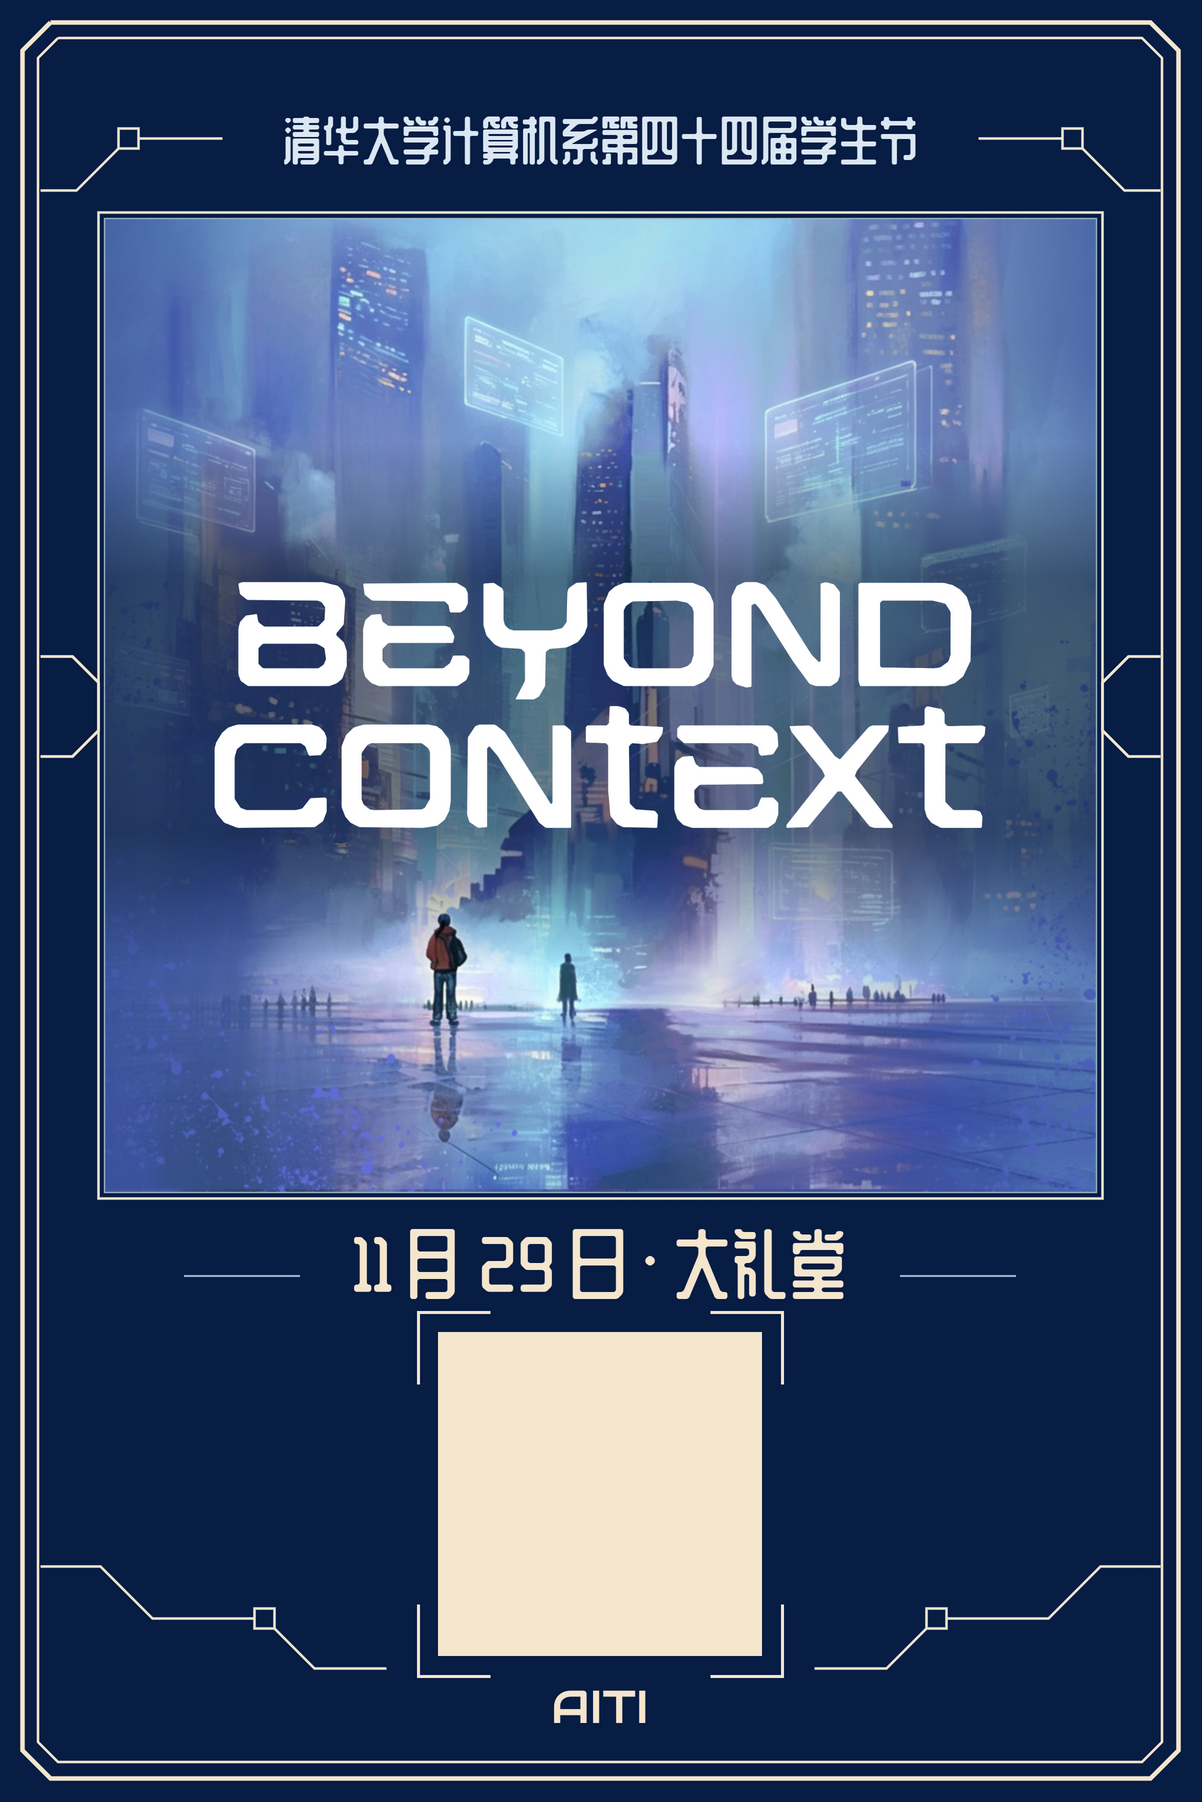
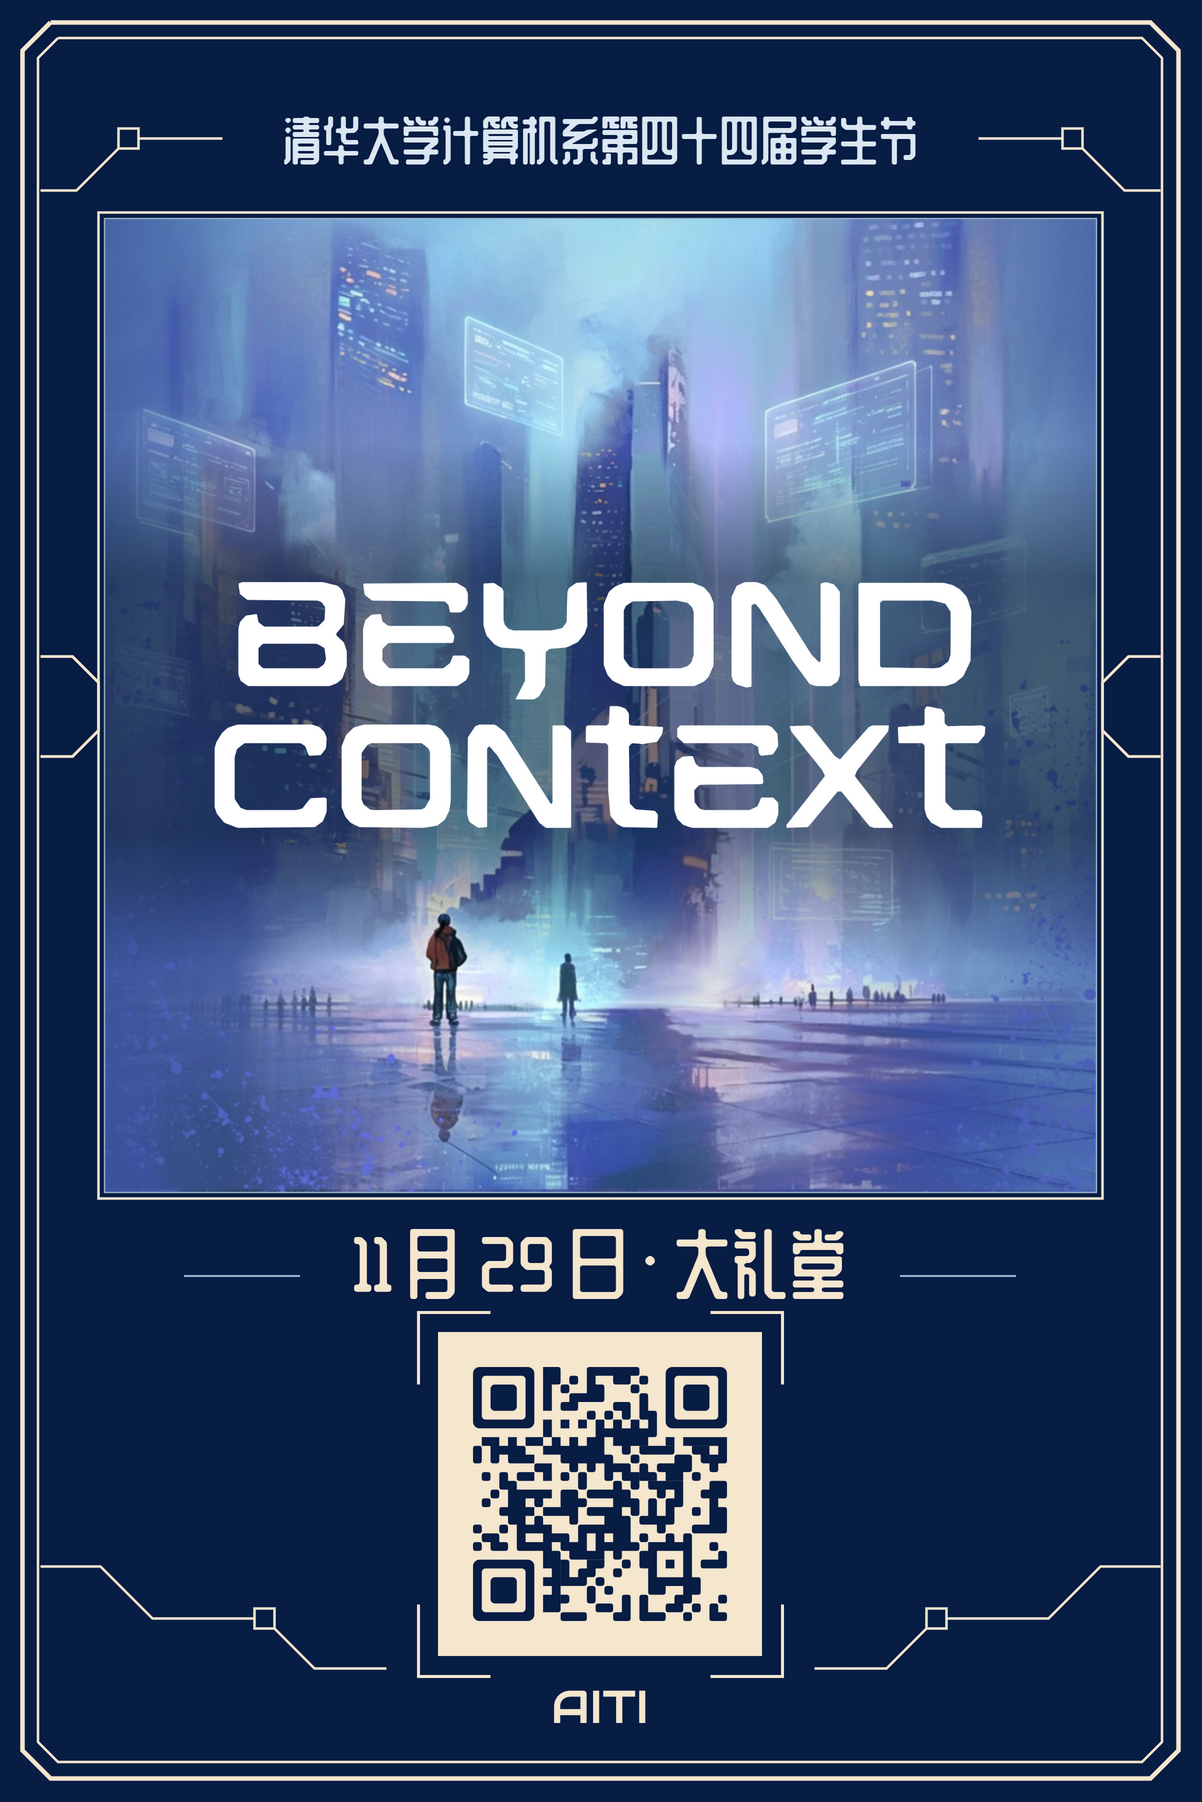
assets: add AITI QR code to the card back

Changed region(s): [[0.3694, 0.7458, 0.6156, 0.9012]]

diff --git a/asset/README.md b/asset/README.md
@@ -4,7 +4,7 @@
 
 - **实物卡与网页电子卡正面 · 铭文版**：八张角色卡。原始整卡 PNG 可直接取用。与 Q 版混排时，从分层版导出对应角色页，确保底图、边框和字标位置一致。[原始 PNG](design/card-studies/engraved-v1/) · [对齐后总览](design/card-studies/engraved-v1/aligned-overview.jpg) · [分层 draw.io](design/card-studies/engraved-v1/fronts.drawio)
 - **实物卡与网页电子卡正面 · Q 版人形**：八张全彩 PNG，与铭文版并行。保留原画配色、动作和道具，三处卡面字标与铭文版一致。[单卡 PNG](design/card-studies/chibi-v1/) · [八款总览](design/card-studies/chibi-v1/overview.jpg) · [分层 draw.io](design/card-studies/chibi-v1/fronts.drawio)
-- **卡片背面**：共用版式，含 Beyond Context 字标、学生节信息和 AITI 测试入口位置。正式二维码待填，活动文字和占位可在源文件里调整。[PNG 预览](design/card-studies/engraved-v1/back.png) · [draw.io 源文件](design/card-studies/engraved-v1/back.drawio)
+- **卡片背面**：共用版式，含 Beyond Context 字标、学生节信息和 AITI 测试入口二维码。二维码指向已约定的 GitHub Pages 地址。[PNG 预览](design/card-studies/engraved-v1/back.png) · [draw.io 源文件](design/card-studies/engraved-v1/back.drawio) · [独立二维码 SVG](design/card-studies/engraved-v1/aiti-qr.svg)
 - **揭晓动画与结果页角色**：取 `white` 路径对应的八张原坐标白底动作图。DeepSeek、Grok、豆包取去字版，其余五款取原定稿。[八款角色取用索引](nonhuman/cards/source-map.json) · [动画设计](../docs/animation.md)
 - **分享图排版**：角色沿用原版动作插画，拼接时可取索引中的 `transparent` 版本。候选背景已归档。正式分享素材计划放在 `asset/share/`，16 张人格底图、8 张极名标签和 `layout.json` 待制作，四维条形按测试结果实时叠加。[透明底角色](nonhuman/cards/transparent/v1/) · [分享背景竖版](design/backgrounds/v3/share-portrait-r2.png) · [分享背景横版](design/backgrounds/v3/share-landscape.png) · [分享素材规格](../docs/system/design.md#五分享图)
 
@@ -49,6 +49,6 @@ asset/
 
 ## 源文件与历史版本
 
-- 两套 `fronts.drawio` 都按角色分页，卡框、角色和三处字标分层。角色和正面字标是内嵌位图对象。卡背的活动信息和二维码占位可以在 draw.io 中编辑。
+- 两套 `fronts.drawio` 都按角色分页，卡框、角色和三处字标分层。角色和正面字标是内嵌位图对象。卡背的活动信息是可编辑文字，二维码是可单独替换的矢量图。
 - 角色原稿和城市背景的版本、尺寸与校验值见各自的 `manifest.json`，提示词与实际生成过程分别见 `prompts.json` 和 `history.json`。[人形规范](../docs/art/human.md) · [非人形规范](../docs/art/nonhuman.md) · [制作素材说明](../docs/art/production-assets.md) · [制作脚本](../tools/art/)
 - 仓库历史稿包括[城市背景 v1](design/backgrounds/v1/)、[城市背景 v2](design/backgrounds/v2/)和 [v5 圆形卡面](design/card-studies/v5/README.md)。本地早期稿另有 `design/card-studies/v1/` 至 `v4/`、`design/comparisons/human-chibi-v1/` 与 `nonhuman/cards/v1/`，这些目录目前未纳入 Git。

diff --git a/asset/design/card-studies/README.md b/asset/design/card-studies/README.md
@@ -4,7 +4,7 @@
 
 - **正面**按角色区分，共 8 张，用于实物纪念卡和网页电子卡正面。深蓝纸底配象牙白刻纹，眼睛或道具保留少量角色代表色。正面为 ImageGen 生成的整张 PNG。[八款总览](engraved-v1/overview.jpg) · [单卡原图](engraved-v1/) · [生成记录](engraved-v1/prompts.json)
 - **分层正面**每个角色一页。卡框和三处字标与对应 Q 版共用，铭文角色以独立透明图层保留原姿态和点缀色。[分层 draw.io 源文件](engraved-v1/fronts.drawio) · [对齐后总览](engraved-v1/aligned-overview.jpg)
-- **背面**为八款共用版式。官方 Beyond Context 字标居中叠在学生节主视觉上，活动信息用站酷庆科黄油体，二维码预留区下方有 AITI 标识。活动文字和占位可以在 draw.io 中编辑，二维码待填。[draw.io 源文件](engraved-v1/back.drawio) · [PNG 预览](engraved-v1/back.png)
+- **背面**为八款共用版式。官方 Beyond Context 字标居中叠在学生节主视觉上，活动信息用站酷庆科黄油体。圆角二维码采用深蓝码点和象牙白底，指向约定的 AITI 测试入口，下方保留 AITI 标识。活动文字与矢量二维码在 draw.io 中分层。[draw.io 源文件](engraved-v1/back.drawio) · [PNG 预览](engraved-v1/back.png) · [独立二维码 SVG](engraved-v1/aiti-qr.svg)
 - 揭晓动画、结果页和分享图沿用[原版角色插画](../../nonhuman/cards/source-map.json)。分享图按人格另行排版。
 
 ## Q 版人形正面

diff --git a/docs/art/production-assets.md b/docs/art/production-assets.md
@@ -33,6 +33,6 @@
 
 在 draw.io 中分别放置角色图、背景、官方字标、可编辑文字、卡框和二维码。当前卡面采用无附文形象，不叠加 DeepSeek、Grok、豆包原有的思绪文字、英文条或便签；这些内容继续保留在历史素材与记录中。八款角色及现有道具作为完整插画引用，等比例放入承托区域，不以裁切角色来隐藏溢出。
 
-当前卡面采用并行的铭文版与全彩 Q 版正面，两套均有分层 draw.io 文件，卡背共用 Beyond Context 学生节版式和 AITI 二维码预留区。[当前卡面与历史版本索引](../../asset/design/card-studies/README.md)
+当前卡面采用并行的铭文版与全彩 Q 版正面，两套均有分层 draw.io 文件。卡背共用 Beyond Context 学生节版式和 AITI 测试入口二维码。[当前卡面与历史版本索引](../../asset/design/card-studies/README.md)
 
 [历史 v5 卡面](../../asset/design/card-studies/v5/README.md)采用满版去地板城市背景与浅透明正圆。AITI 与模型名内嵌为独立矢量轮廓，原字符串与字体来源保留供重新构建。
